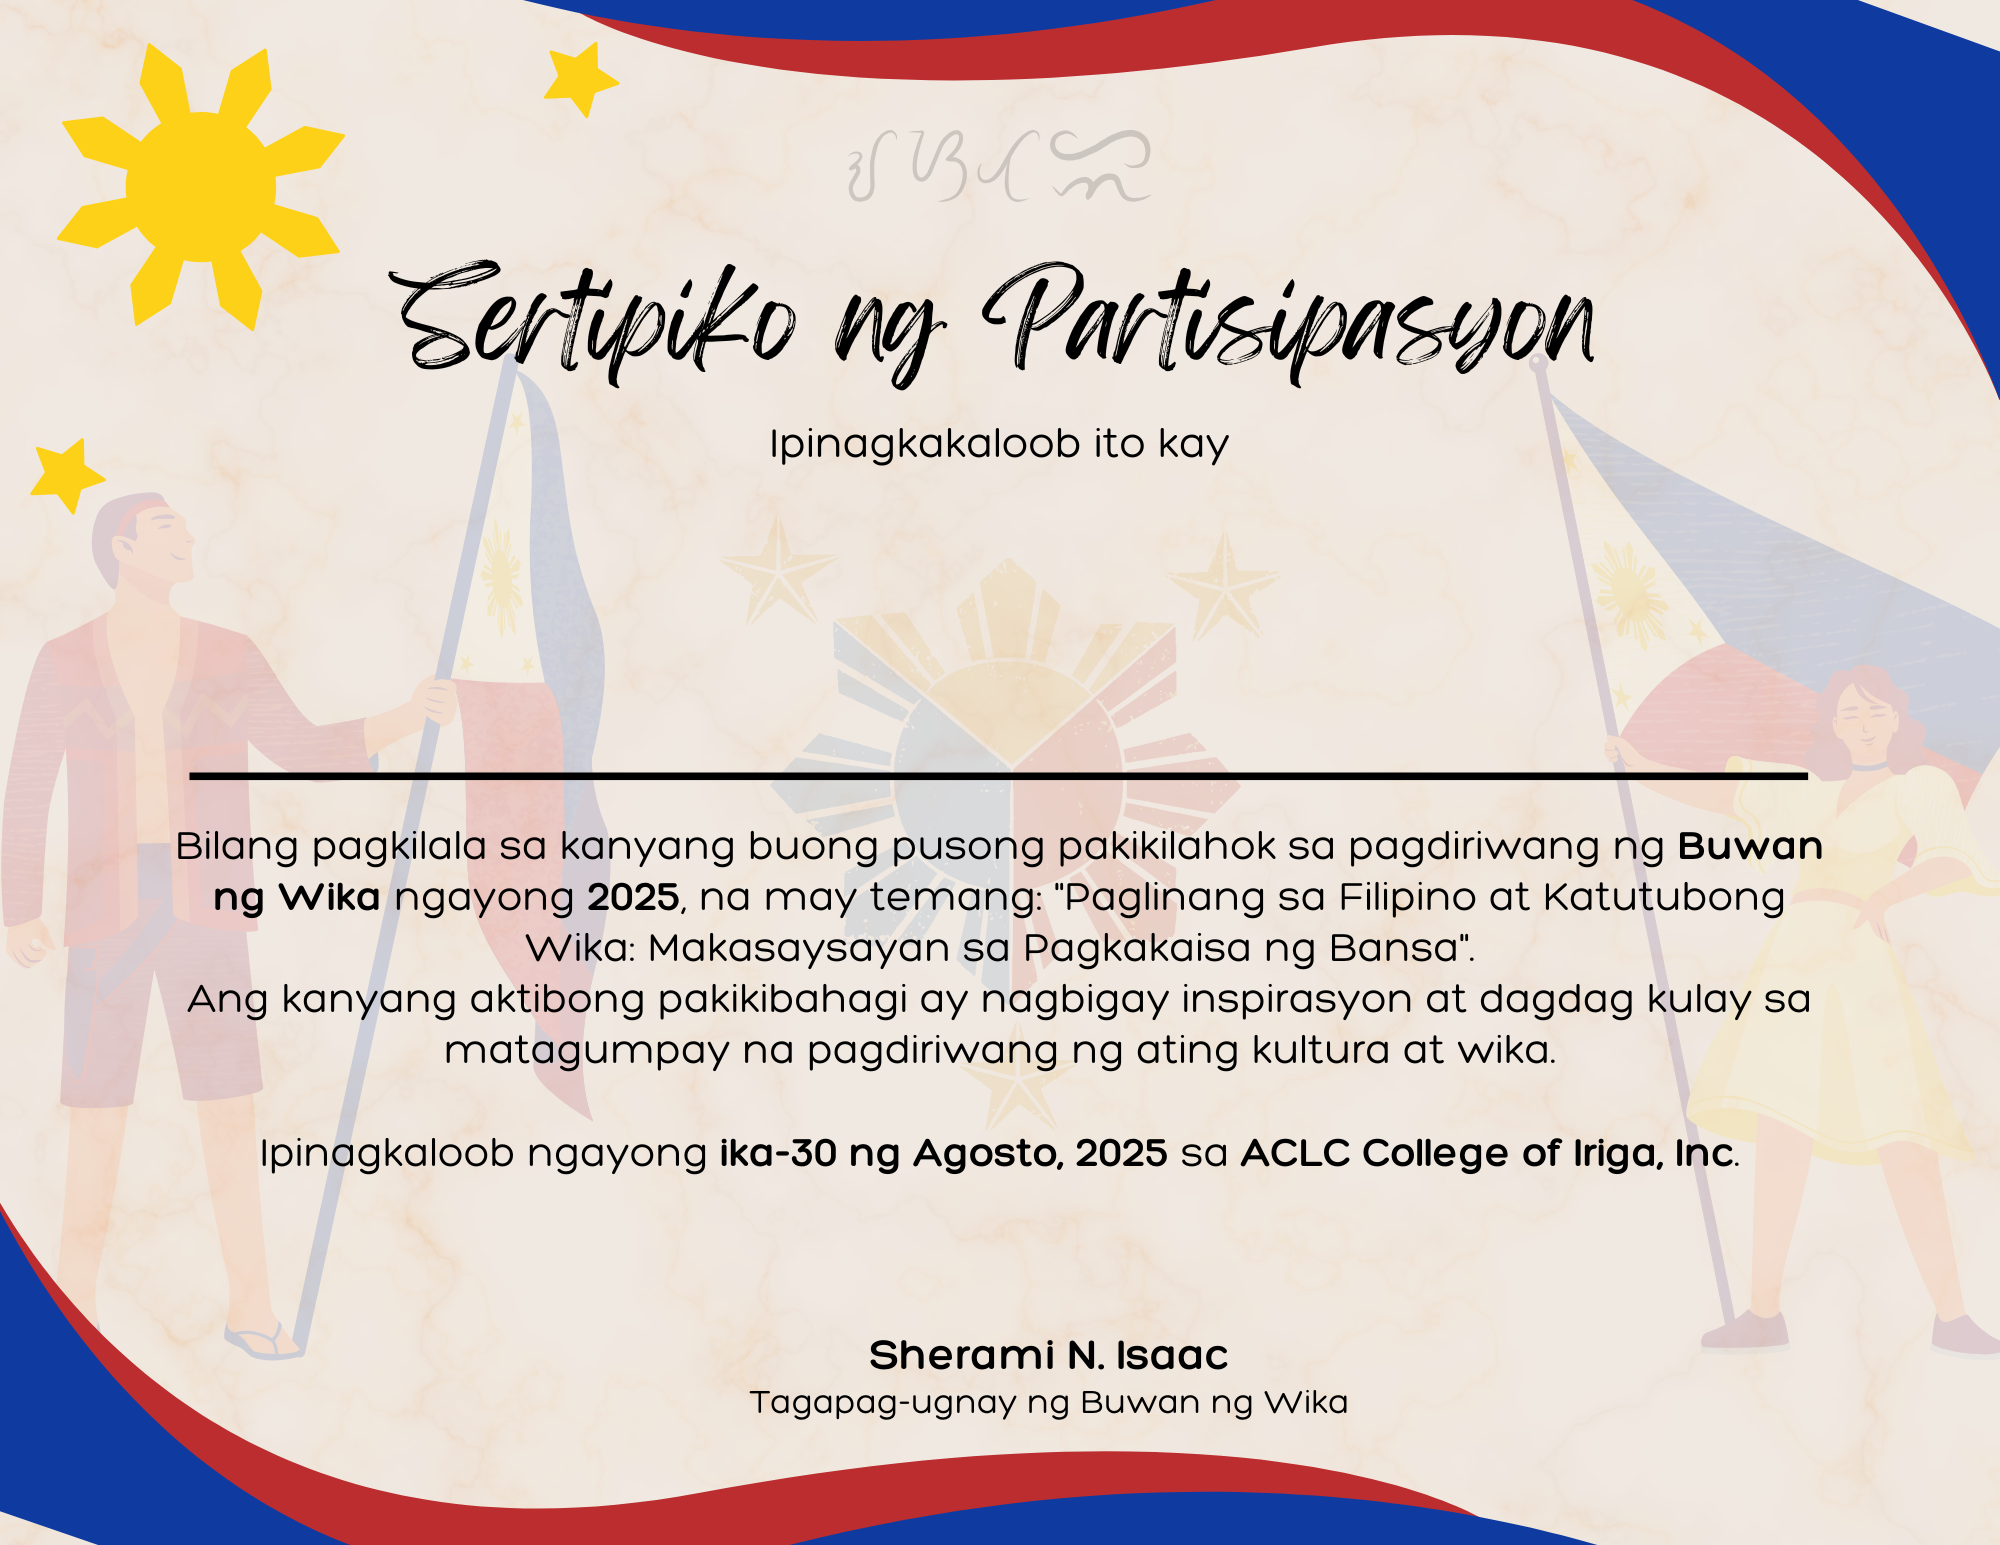
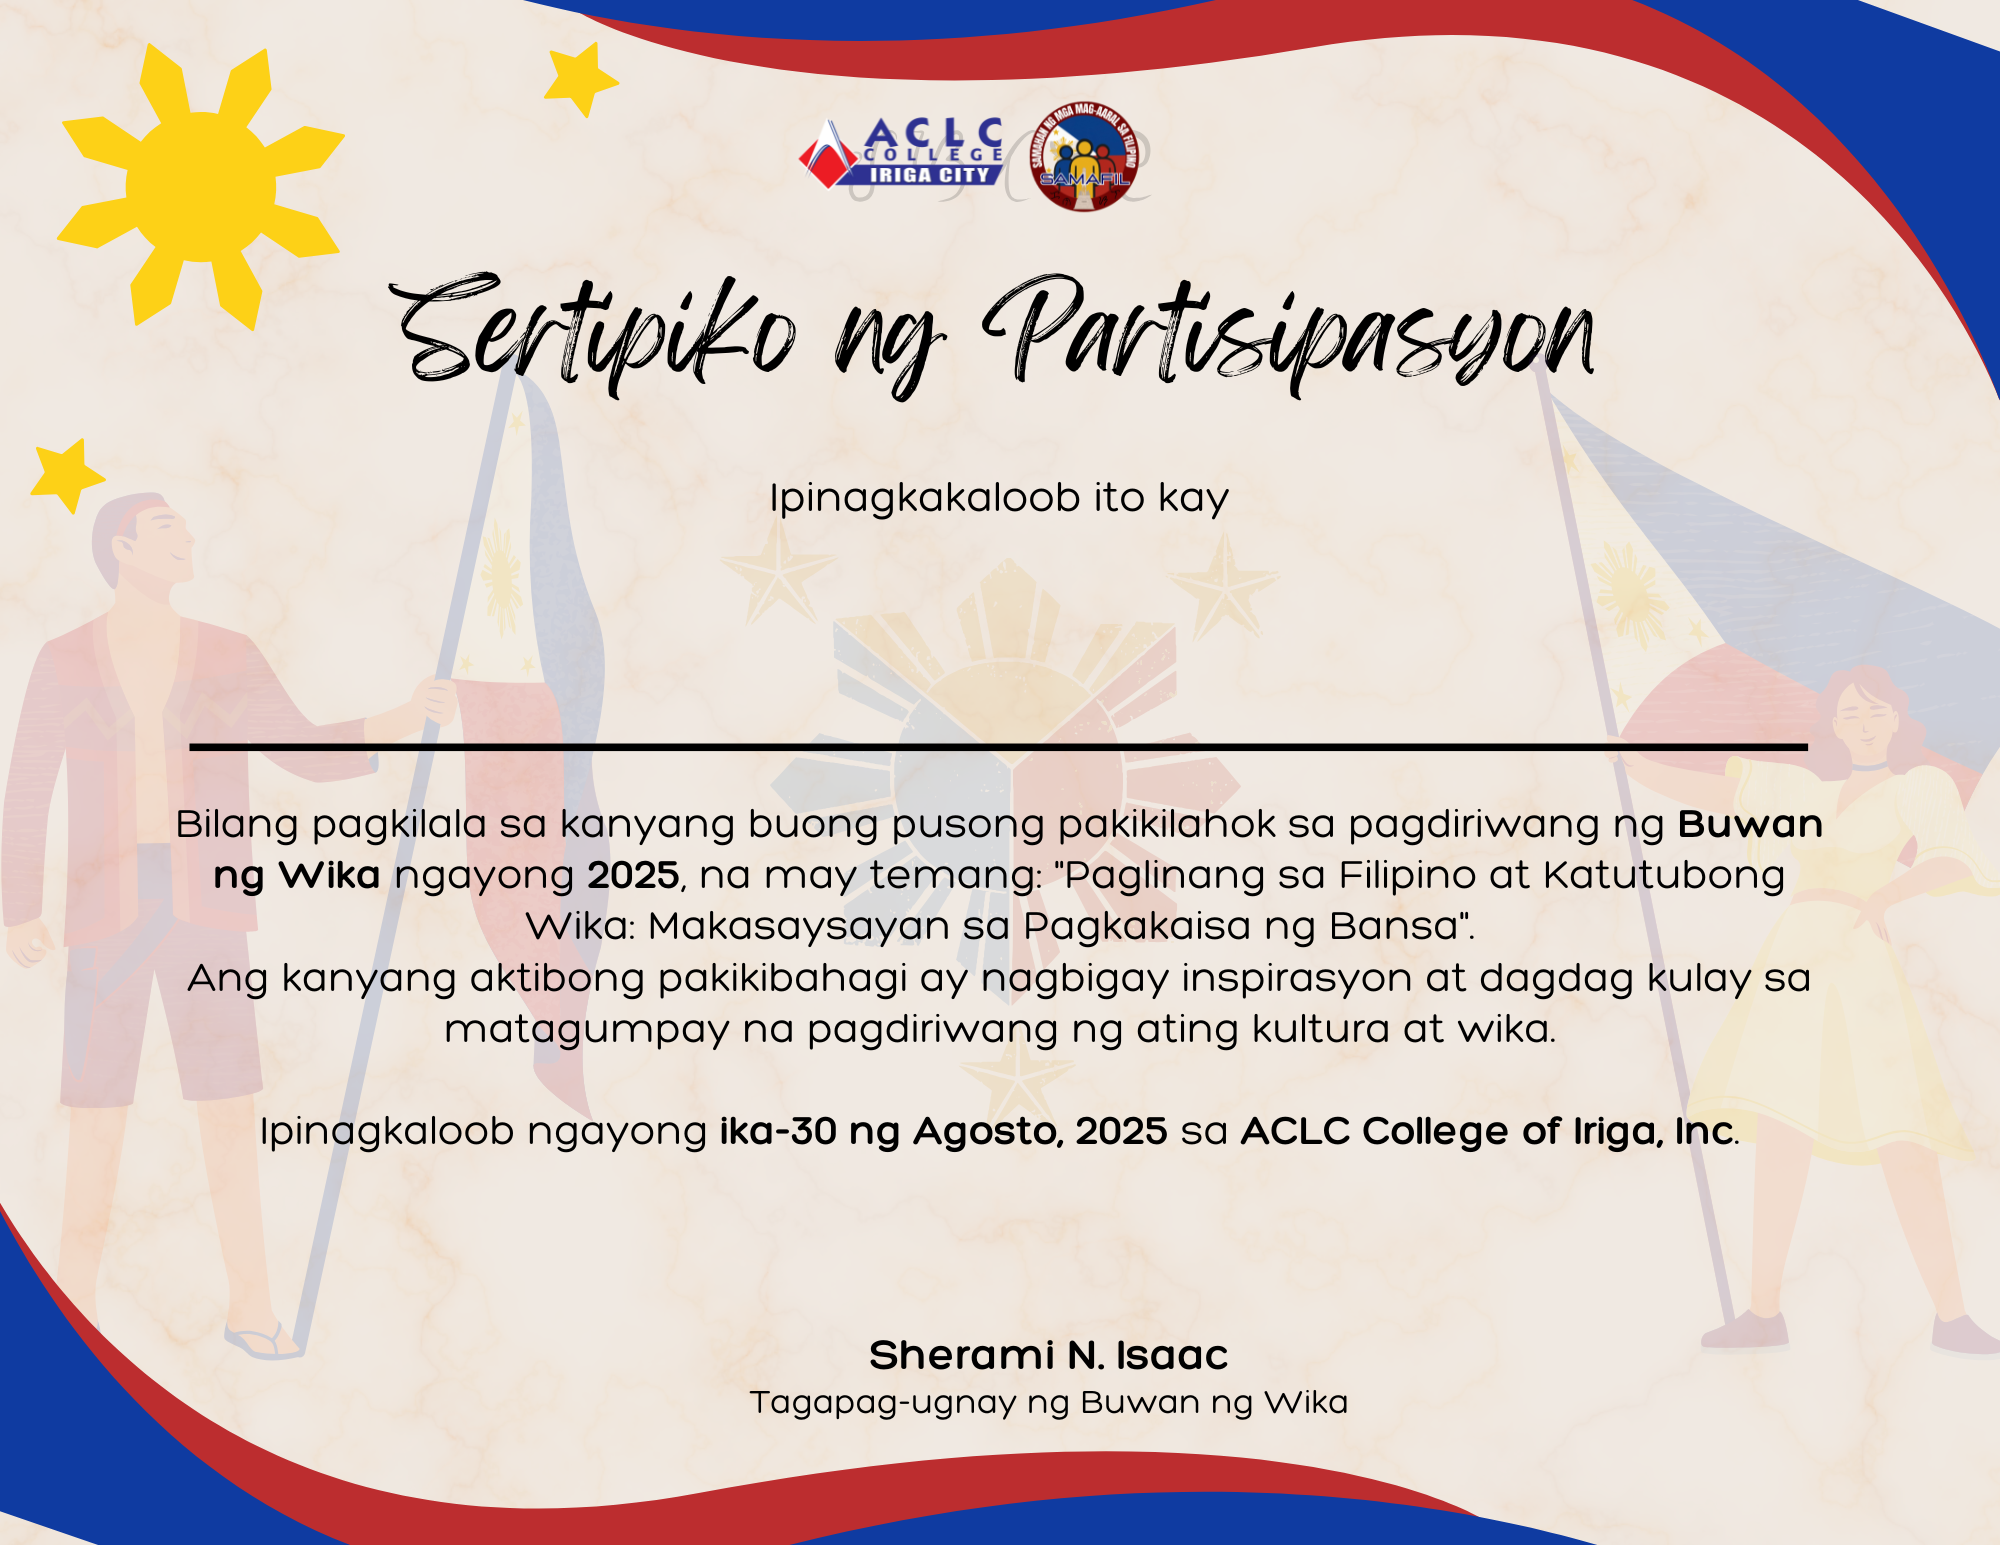
Adjust design

Changed region(s): [[0.093, 0.466, 0.93, 0.7767], [0.186, 0.0621, 0.806, 0.3417]]

diff --git a/certificate1.php b/certificate1.php
@@ -12,7 +12,7 @@
         text-transform: uppercase;
         position: absolute;
         color: #040348;
-        top: 47%;
+        top: 45%;
         left: 50%;
         transform: translate(-50%, -50%);
         white-space: nowrap;
